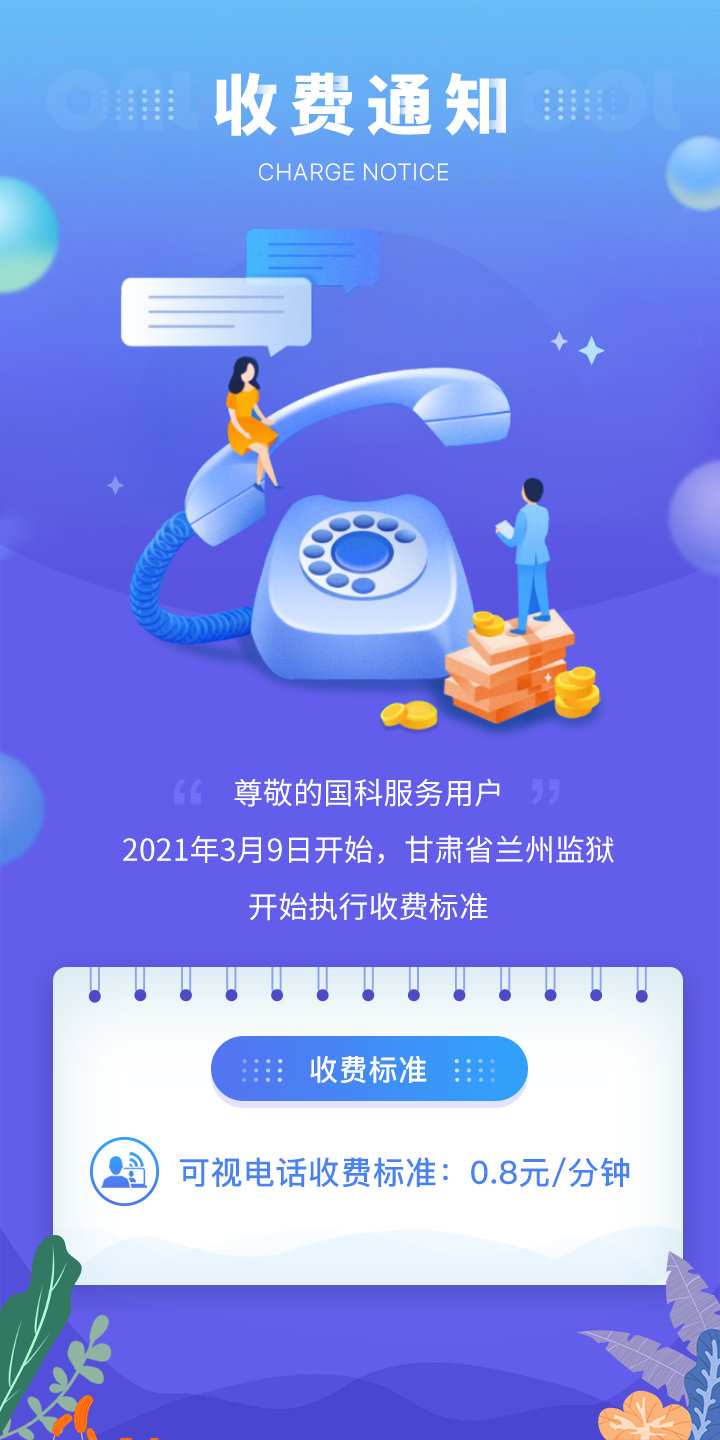
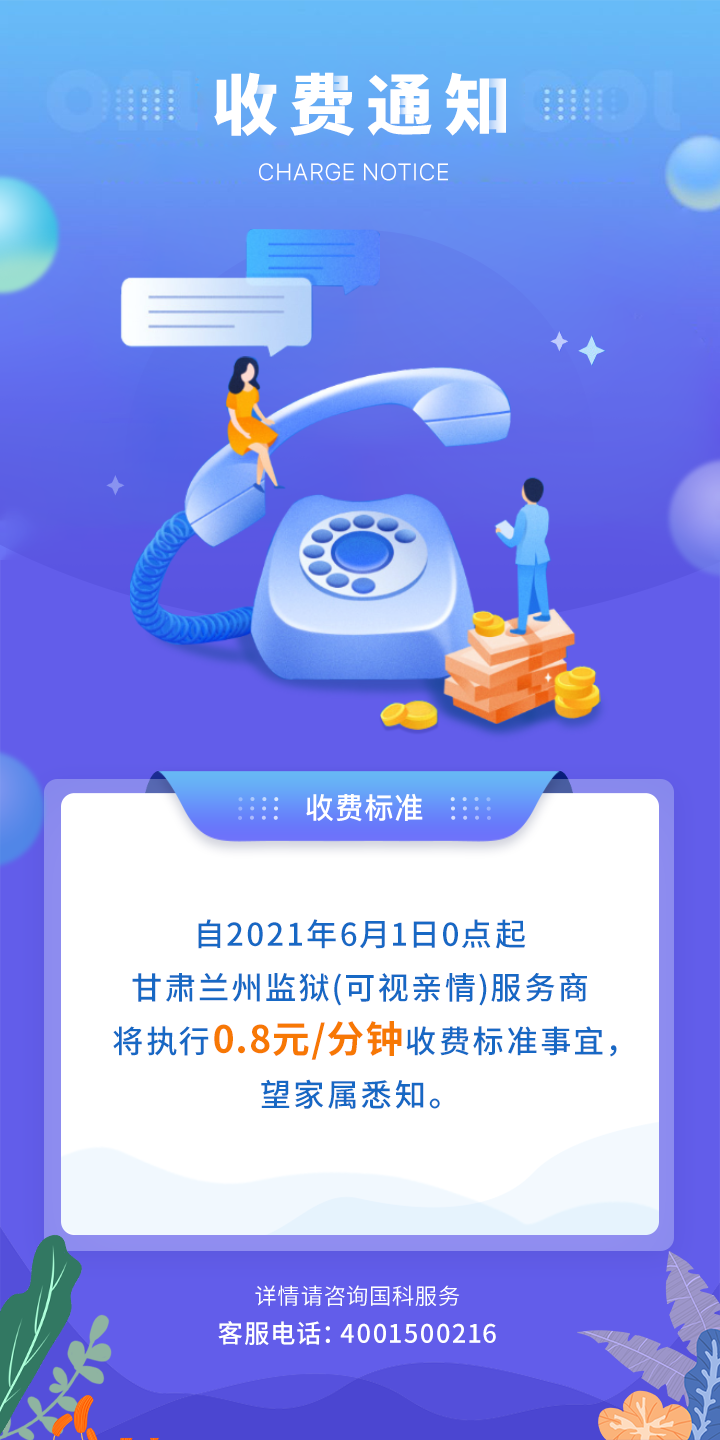
feat: 甘肃兰州、宁夏女、陕西女子 更新广告图片

Changed region(s): [[0.0611, 0.5312, 0.9472, 0.9375]]

diff --git a/src/common/constants/const.js b/src/common/constants/const.js
@@ -3,10 +3,10 @@ import guangdongProvince from '@/assets/images/guangdong-province.png'
 import guangxiProvince from '@/assets/images/guangxi-province.png'
 
 // 收费广告 甘肃-兰州
-// import gansuLanzhou from '@/assets/images/gansu-lanzhou.png'
+import gansuLanzhou from '@/assets/images/gansu-lanzhou.png'
 
 // 提示广告 甘肃-兰州
-import gansuLanzhou from '@/assets/images/gansu-lanzhou-warnning.png'
+// import gansuLanzhou from '@/assets/images/gansu-lanzhou-warnning.png'
 
 // 收费广告 甘肃-女子
 // import gansuNvzi from '@/assets/images/gansu-nvzi.png'
@@ -33,6 +33,10 @@ import shanxiHuangLing from '@/assets/images/shanxi-huangling.png'
 import shanxiMaLan from '@/assets/images/shanxi-malan.png'
 
 import shanxiShangZhou from '@/assets/images/shanxi-shangzhou.png'
+
+import shanxiNvZi from '@/assets/images/shanxi-nvzi.png'
+
+import ningxiaNvZi from '@/assets/images/ningxia-nvzi.png'
 
 export const noticeImgSwitchJaild = [
     {
@@ -90,5 +94,13 @@ export const noticeImgSwitchJaild = [
     {
         jaild: 25,
         url: shanxiShangZhou
+    },
+    {
+        jaild: 21,
+        url: shanxiNvZi
+    },
+    {
+        jaild: 81,
+        url: ningxiaNvZi
     }
 ]
